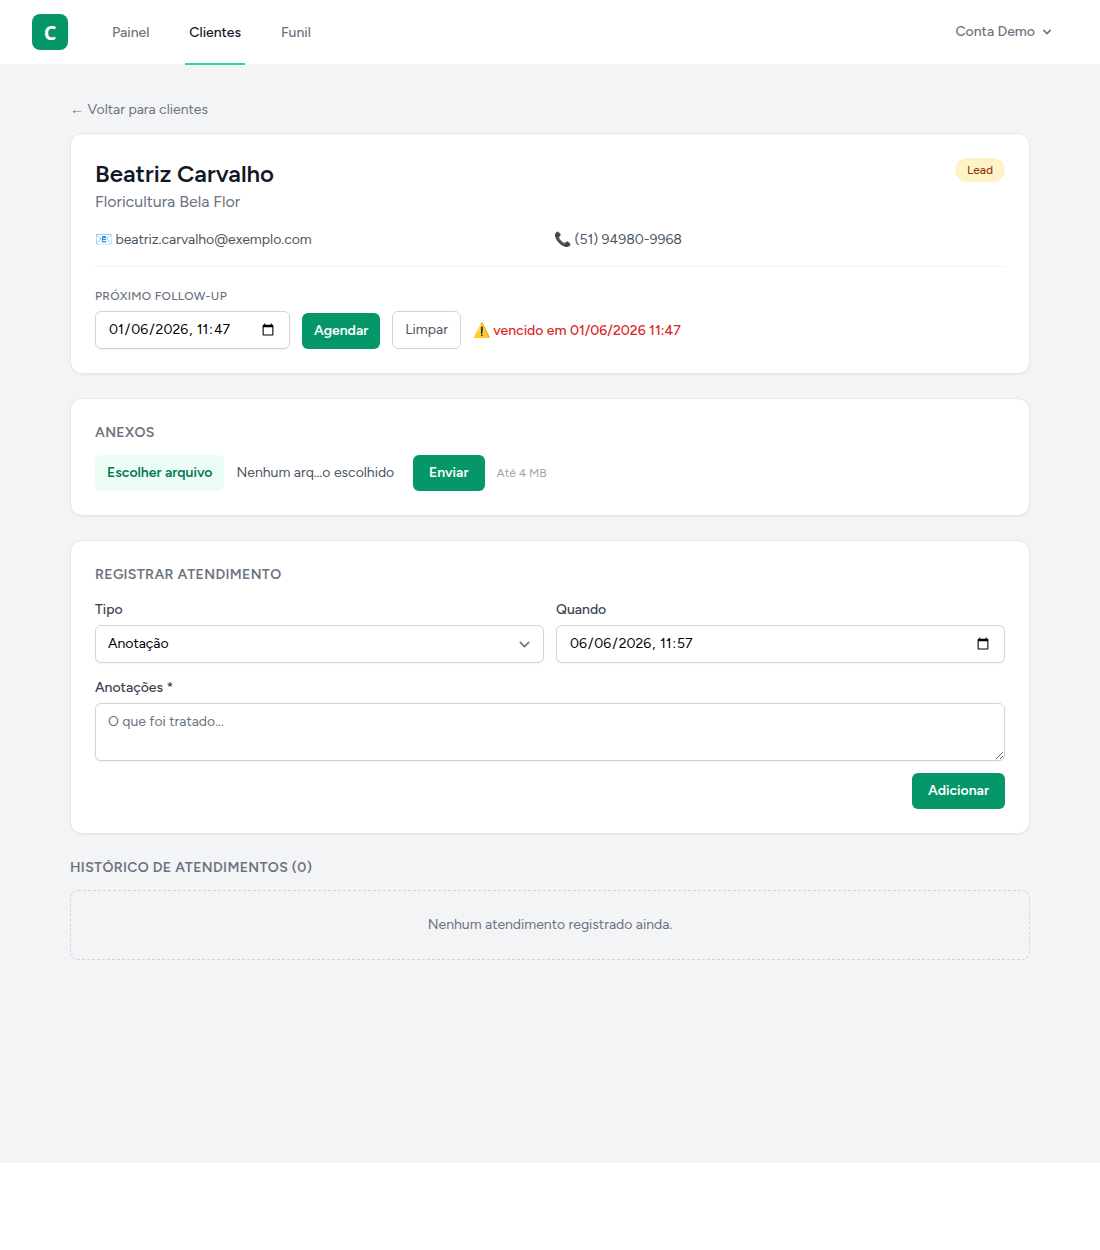
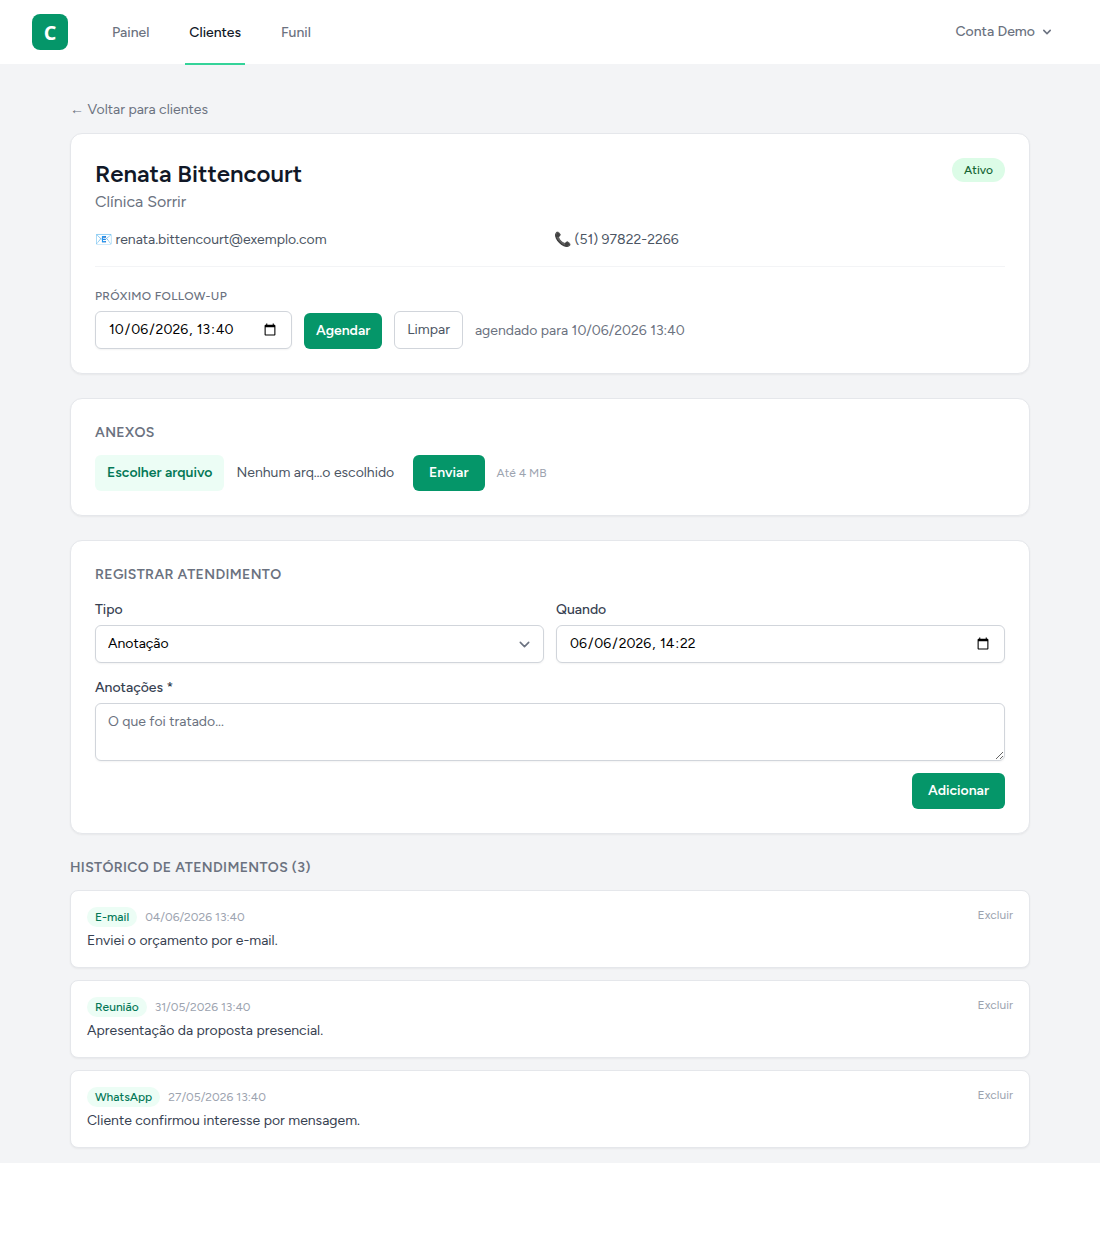
chore: enrich demo seed (14 clients, follow-ups, interactions) and refresh README screenshots

diff --git a/database/seeders/DatabaseSeeder.php b/database/seeders/DatabaseSeeder.php
@@ -2,7 +2,6 @@
 
 namespace Database\Seeders;
 
-use App\Models\Client;
 use App\Models\User;
 use Illuminate\Database\Seeder;
 
@@ -20,37 +19,49 @@ class DatabaseSeeder extends Seeder
             return;
         }
 
-        $clients = [
-            ['name' => 'Marina Costa', 'company' => 'Padaria Pão Quente', 'status' => 'active', 'email' => 'marina@paoquente.com', 'phone' => '(51) 99888-1010'],
-            ['name' => 'Eduardo Lima', 'company' => 'Auto Peças Lima', 'status' => 'active', 'email' => 'eduardo@apl.com', 'phone' => '(51) 99777-2020'],
-            ['name' => 'Patrícia Gomes', 'company' => 'Studio Pilates', 'status' => 'lead', 'email' => 'patricia@studio.com', 'phone' => '(51) 99666-3030'],
-            ['name' => 'Rodrigo Alves', 'company' => 'Mercado Central', 'status' => 'lead', 'email' => 'rodrigo@mercado.com', 'phone' => '(51) 99555-4040'],
-            ['name' => 'Carla Mendes', 'company' => 'Salão Beleza Pura', 'status' => 'inactive', 'email' => 'carla@belezapura.com', 'phone' => '(51) 99444-5050'],
-            ['name' => 'Fernando Rocha', 'company' => 'Construtora Rocha', 'status' => 'active', 'email' => 'fernando@rocha.com', 'phone' => '(51) 99333-6060'],
+        $notes = [
+            'call' => ['Primeiro contato, apresentei a empresa.', 'Liguei para retomar a negociação.', 'Cliente pediu para retornar a ligação.'],
+            'email' => ['Enviei o orçamento por e-mail.', 'Follow-up: aguardando retorno da proposta.', 'Mandei o contrato para assinatura.'],
+            'meeting' => ['Reunião de alinhamento de escopo.', 'Apresentação da proposta presencial.', 'Reunião de fechamento.'],
+            'whatsapp' => ['Tirei dúvidas pelo WhatsApp.', 'Enviei catálogo pelo WhatsApp.', 'Cliente confirmou interesse por mensagem.'],
+            'note' => ['Indicação de outro cliente.', 'Prefere atendimento pela manhã.', 'Orçamento aprovado internamente.'],
+        ];
+        $types = array_keys($notes);
+
+        // [nome, empresa, status, follow-up (dias; neg=vencido, null=sem), nº atendimentos]
+        $fleet = [
+            ['Beatriz Carvalho', 'Floricultura Bela Flor', 'lead', -5, 0],
+            ['Gustavo Henrique', 'Oficina do Gustavo', 'lead', -2, 1],
+            ['Larissa Moreira', 'Ateliê Larissa', 'lead', -1, 1],
+            ['Tiago Fontes', 'Fontes Contabilidade', 'lead', null, 0],
+            ['Sandra Aparecida', 'Doces da Sandra', 'lead', 2, 2],
+            ['Marcelo Pires', 'Pires Transportes', 'lead', 6, 3],
+            ['Renata Bittencourt', 'Clínica Sorrir', 'active', 4, 3],
+            ['Cláudia Nunes', 'Mercearia da Cláudia', 'active', 9, 5],
+            ['Felipe Andrade', 'Andrade Materiais', 'active', null, 4],
+            ['Vanessa Lopes', 'Pet Shop AuAu', 'active', 14, 6],
+            ['Ricardo Teixeira', 'Tech Teixeira', 'active', 3, 4],
+            ['Juliana Prado', 'Prado Eventos', 'active', null, 5],
+            ['Paulo Vidal', 'Vidal Calçados', 'inactive', null, 2],
+            ['Mônica Freitas', 'Salão da Mônica', 'inactive', null, 1],
         ];
 
-        $interactions = [
-            ['type' => 'call', 'notes' => 'Primeiro contato, apresentei a proposta.'],
-            ['type' => 'whatsapp', 'notes' => 'Enviei o orçamento pelo WhatsApp.'],
-            ['type' => 'meeting', 'notes' => 'Reunião para alinhar escopo do serviço.'],
-            ['type' => 'email', 'notes' => 'Follow-up: aguardando retorno sobre o contrato.'],
-        ];
-
-        // alguns follow-ups: vencidos e próximos (para o painel)
-        $followups = [now()->subDays(3), now()->subDay(), null, now()->addDays(2), null, now()->addDays(5)];
-
-        foreach ($clients as $i => $data) {
+        foreach ($fleet as $i => [$name, $company, $status, $followup, $count]) {
             $client = $user->clients()->create([
-                ...$data,
-                'next_followup_at' => $followups[$i] ?? null,
+                'name' => $name,
+                'company' => $company,
+                'status' => $status,
+                'email' => str_replace(' ', '.', mb_strtolower($name)).'@exemplo.com',
+                'phone' => '(51) 9'.(7000 + $i * 137).'-'.(1000 + $i * 211),
+                'next_followup_at' => $followup === null ? null : now()->addDays($followup),
             ]);
 
-            // 2 a 3 atendimentos por cliente, com datas escalonadas
-            for ($j = 0; $j <= ($i % 2) + 1; $j++) {
-                $interaction = $interactions[($i + $j) % count($interactions)];
+            for ($j = 0; $j < $count; $j++) {
+                $type = $types[($i + $j) % count($types)];
                 $client->interactions()->create([
-                    ...$interaction,
-                    'happened_at' => now()->subDays($j * 3 + $i),
+                    'type' => $type,
+                    'notes' => $notes[$type][($i + $j) % 3],
+                    'happened_at' => now()->subDays($j * 4 + ($i % 5) + 1),
                 ]);
             }
         }
